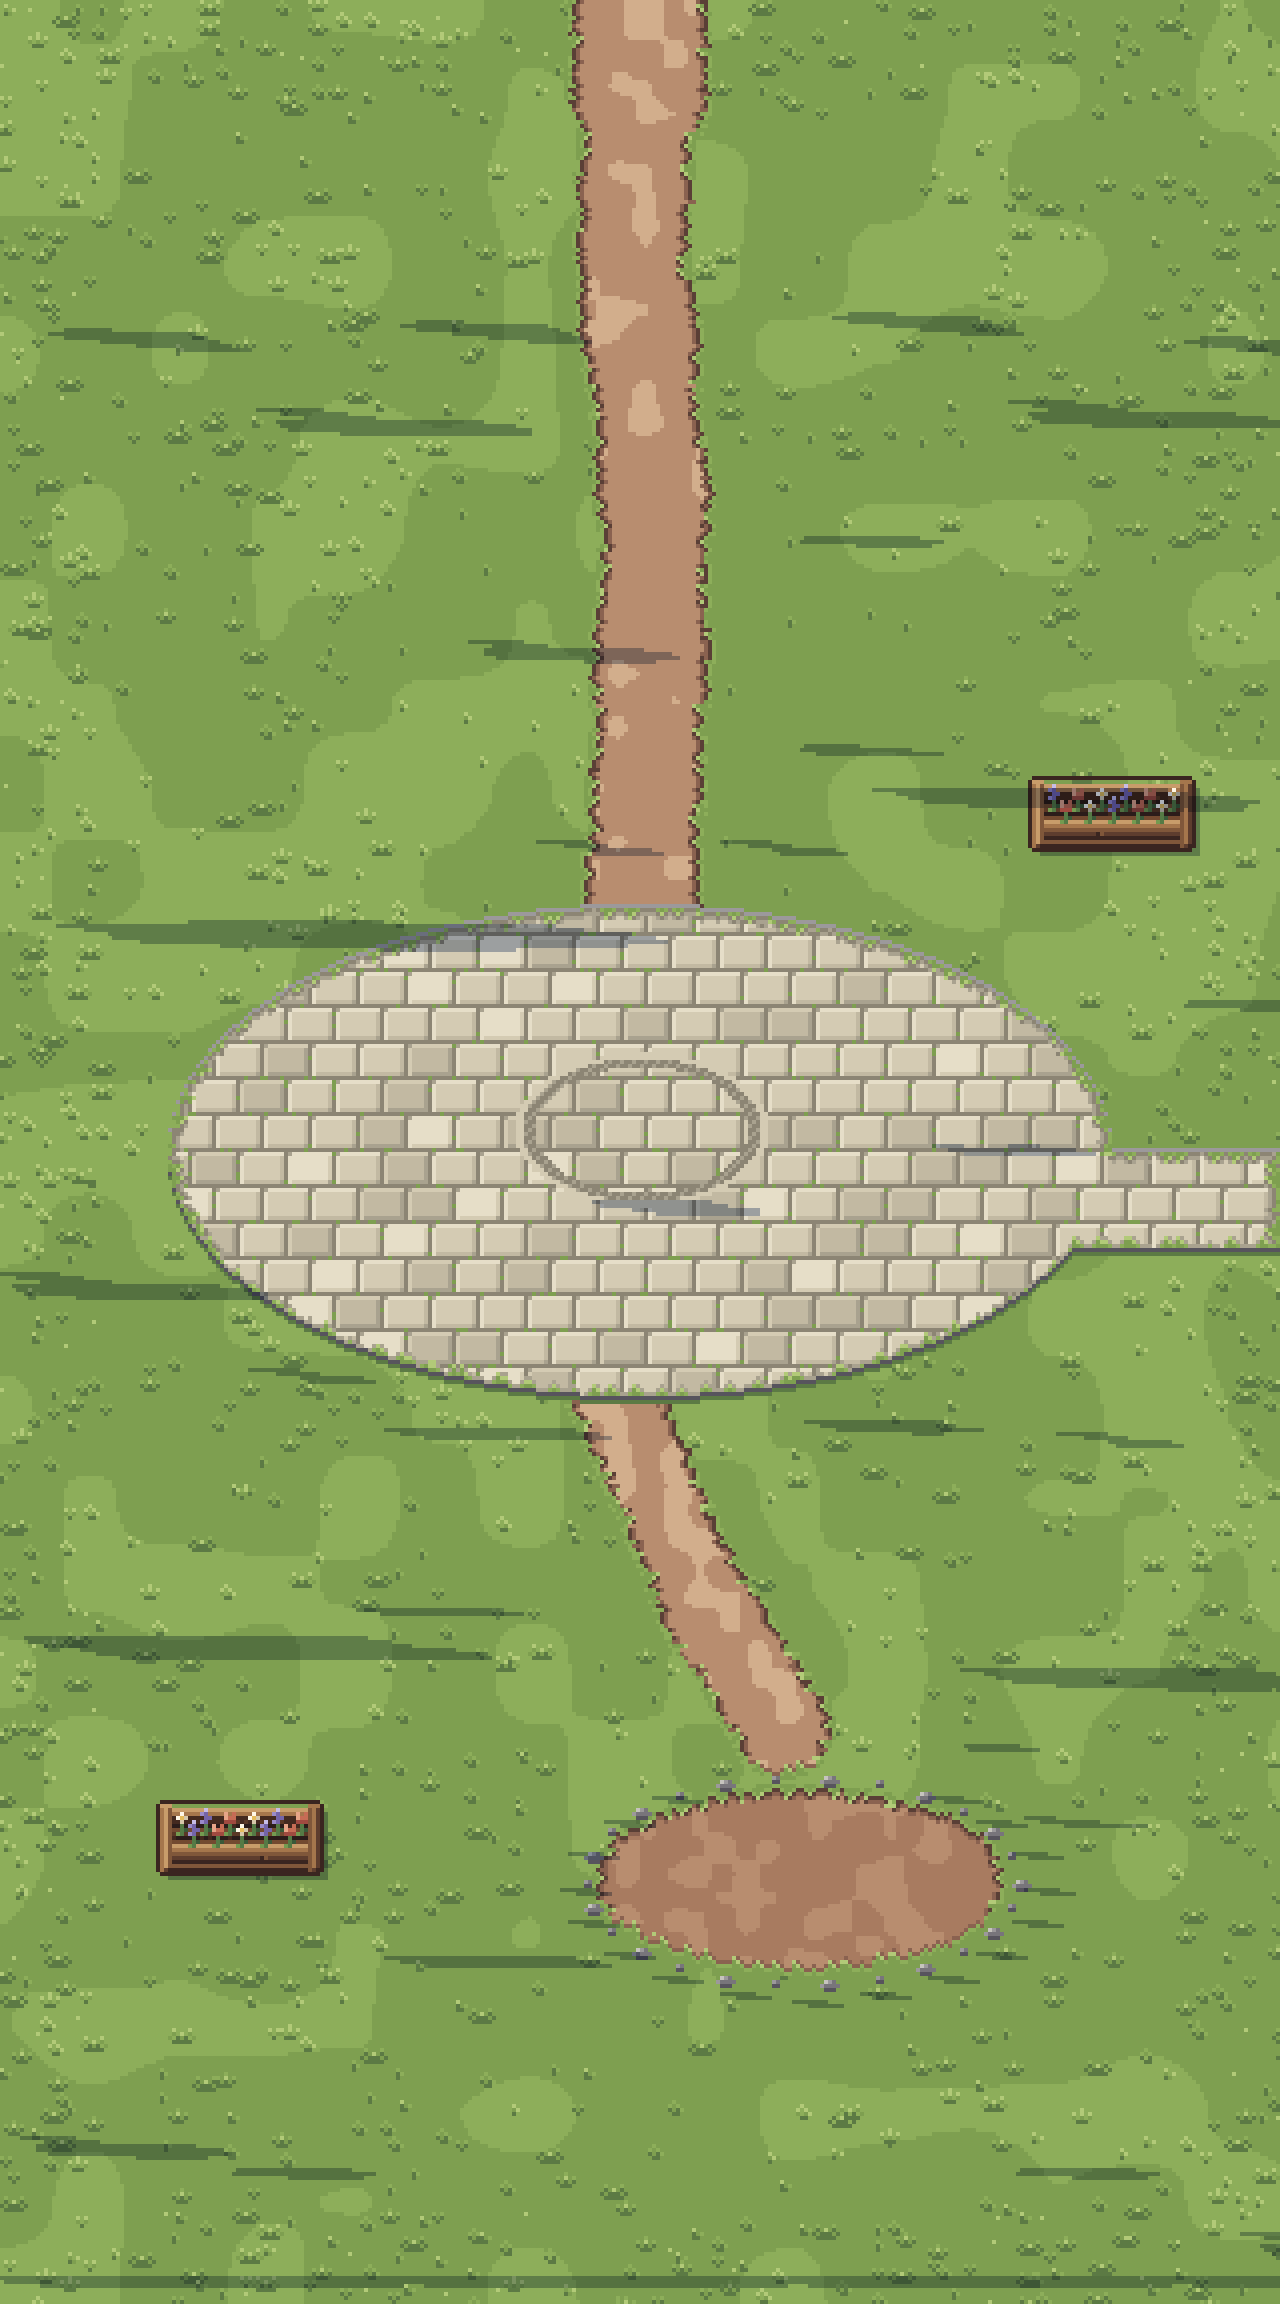
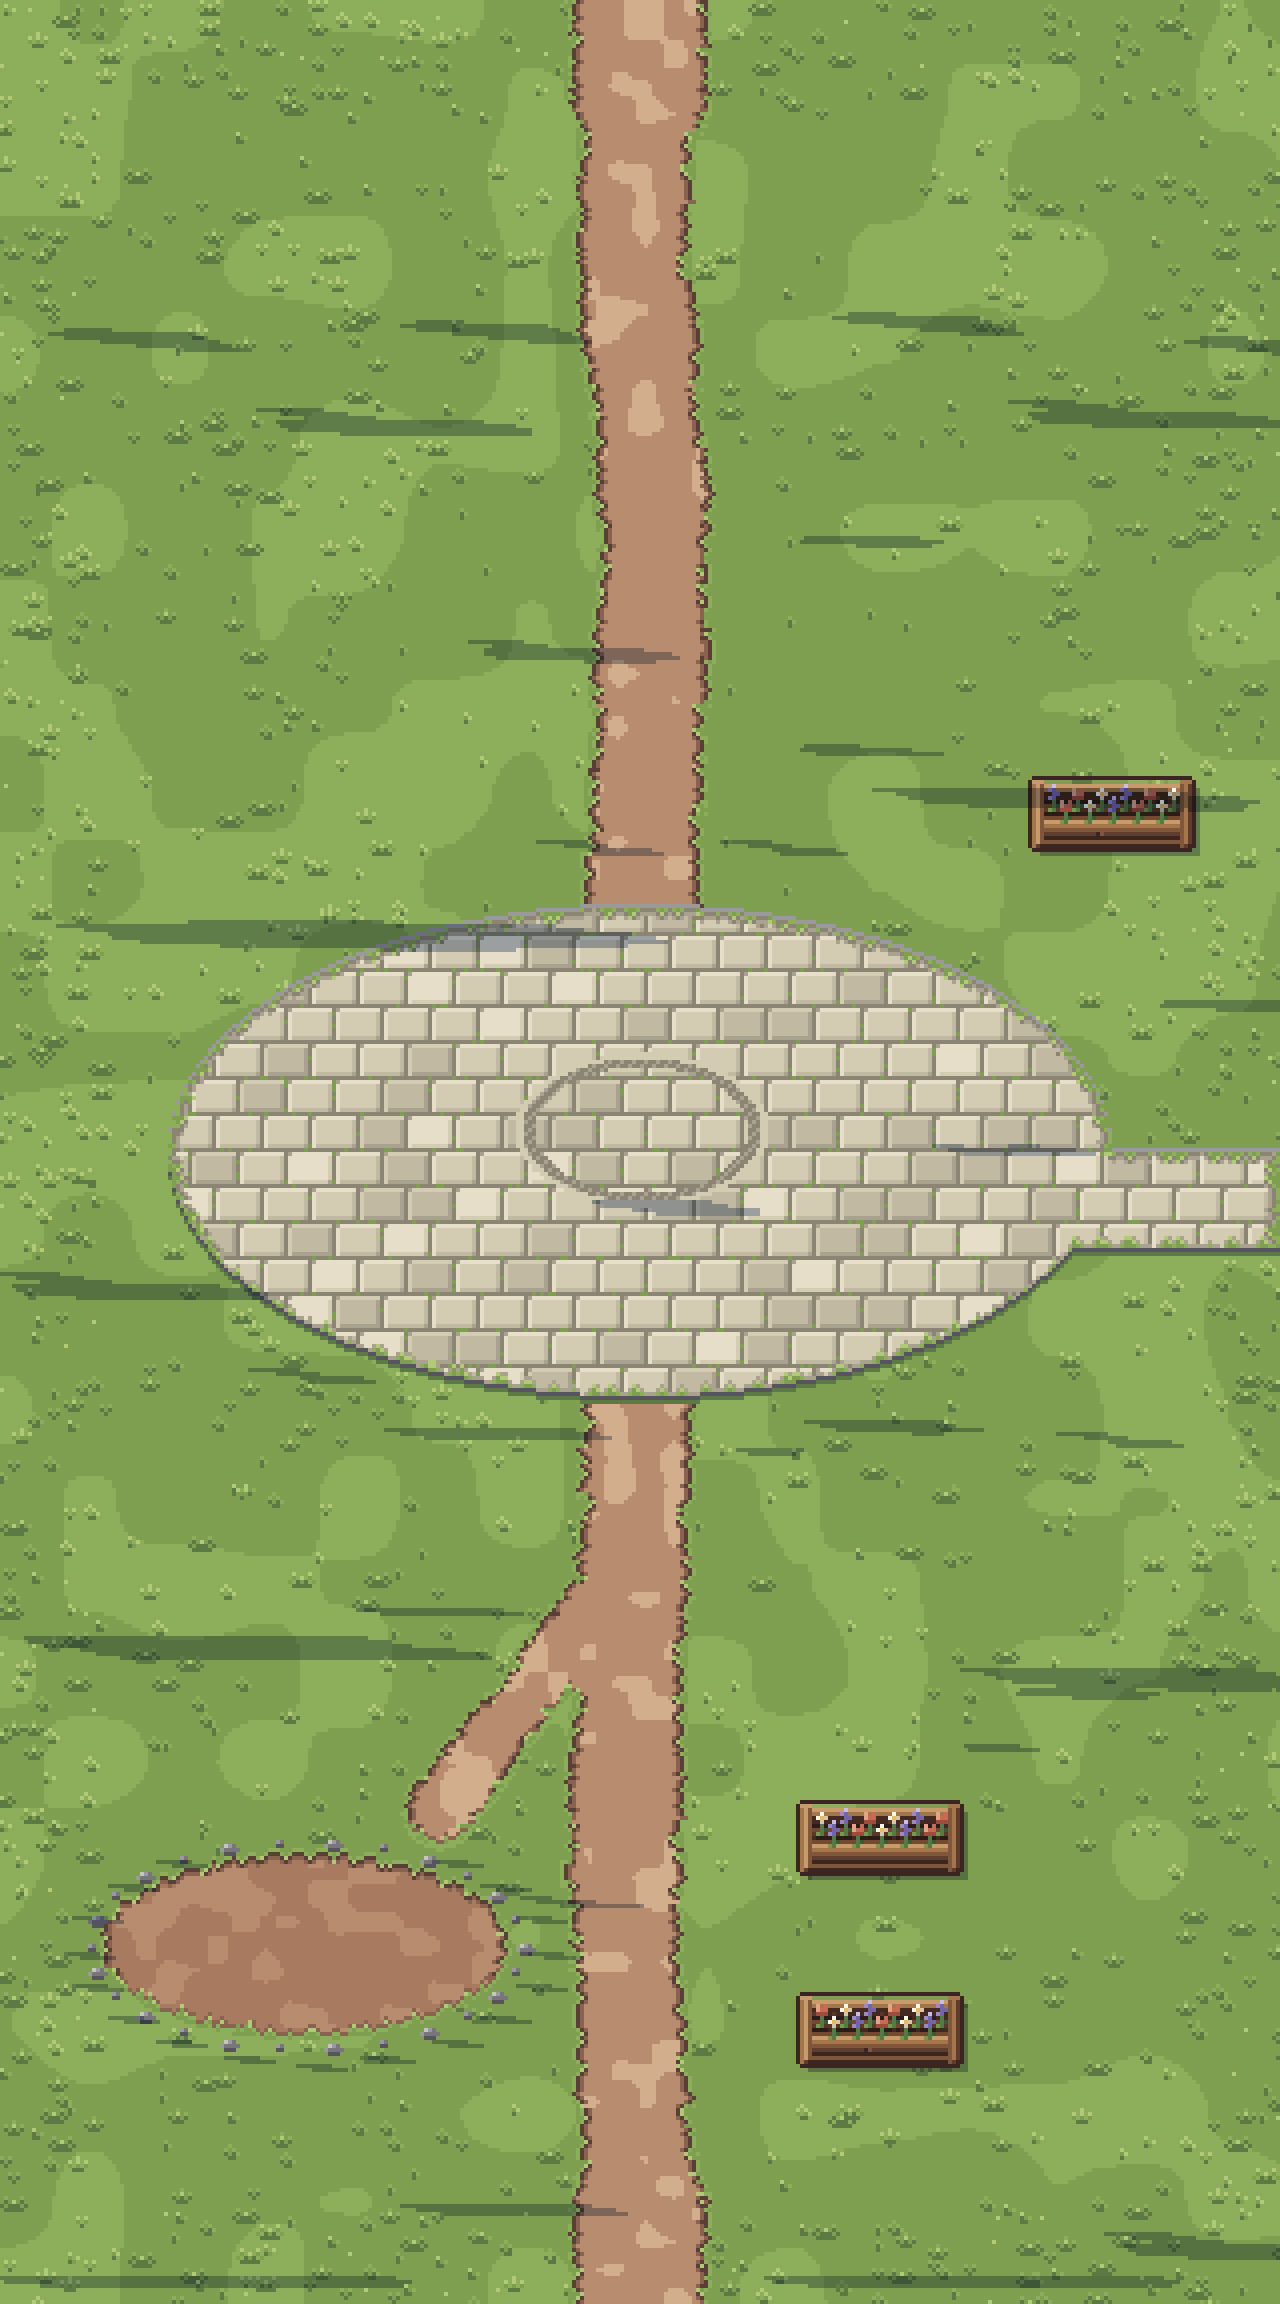
Crossroads Town: the road south to the harbour, bunting and the town cat
The town's south edge now opens on the road to Driftwood Harbour at the same x and
width as the harbour's road, so the two zones meet without a seam (roads may now
run on past either edge in paint_road). The sparring ring moves west of the road,
bunting is strung across the square for market day, and the town cat sleeps in
the sun. Overhead things (steam, drones, bunting) never block a walk.

Claude-Session: https://claude.ai/code/session_01UudrmtYkicLNgZeuSjvjrK

diff --git a/scripts/art/zones.py b/scripts/art/zones.py
@@ -110,11 +110,11 @@ def ring_post() -> Canvas:
 
 def paint_road(cv: Canvas, mask):
     """Sandy earth with the ragged turf edge, like worlds.paint_dirt, except that pixels
-    beyond the top edge count as road: the road runs on into the garden, so the border
-    gets no turf edge and the two zones meet without a seam."""
+    beyond the top or bottom edge count as road: the road runs on into the next zone,
+    so the border gets no turf edge and the two zones meet without a seam."""
     for (x, y) in mask:
         cv.set(x, y, P[4] if smooth_noise(x, y, 7, 40) > 0.7 else P[3])
-    detail.grass_edge(cv, {(x, y) for (x, y) in mask if 0 <= x < W and y < H}, G, P, seed=11)
+    detail.grass_edge(cv, {(x, y) for (x, y) in mask if 0 <= x < W}, G, P, seed=11)
     for (x, y) in mask:
         if (x, y + 1) not in mask and 0 <= y + 1 < H:
             cv.set(x, y + 1, G[3])
@@ -129,8 +129,10 @@ def town(frame: int = 0):
     paint_road(cv, road | {(x, y) for (x, y0) in road if y0 == 0 for y in range(-12, 0)})
     square = {(x, y) for (x, y) in oval(SQUARE[0], SQUARE[1], 118, 62)}
     east = worlds.thick([(250, 300), (W + 4, 300)], 13)
-    south = worlds.thick([(150, 340), (176, 400), (196, 432)], 12, seed=6)
-    worlds.paint_dirt(cv, south)
+    # the road south to Driftwood Harbour, the same width and x as the harbour's road
+    south = worlds.thick([(160, 340), (156, 470), (160, 560)], 15, seed=6) | worlds.thick([(160, 552), (160, H + 4)], 18)
+    south |= worlds.thick([(150, 400), (110, 452)], 9, seed=7)  # a side path to the ring
+    paint_road(cv, south | {(x, y) for (x, y0) in south if y0 == H - 1 for y in range(H, H + 12)})
     worlds.paint_paving(cv, square | east, seed=3)
     # a ring of darker setts around the well, and a kerb where the square meets the lawn
     for (x, y) in square:
@@ -146,7 +148,7 @@ def town(frame: int = 0):
         elif (x, y - 1) not in square and (x, y - 1) not in east:
             cv.set(x, y, STONE[3])
     # the sparring ring: trodden earth edged with stones
-    rcx, rcy = 200, 470
+    rcx, rcy = 76, 486
     ring = oval(rcx, rcy, 52, 24)
     for (x, y) in ring:
         cv.set(x, y, P[3] if smooth_noise(x, y, 6, 9) > 0.55 else P[2])
@@ -154,7 +156,7 @@ def town(frame: int = 0):
     for k in range(26):
         a = 2 * math.pi * k / 26
         detail.pebble(cv, int(rcx + 54 * math.cos(a)), int(rcy + 26 * math.sin(a)), STONE, big=k % 2 == 0)
-    for fb in ((258, 196, 40, 16, 2), (40, 452, 40, 16, 1)):
+    for fb in ((258, 196, 40, 16, 2), (200, 452, 40, 16, 1), (200, 500, 40, 16, 3)):
         meadow.flower_planter(cv, *fb)
     objects = [
         # the treeline either side of the road from the garden
@@ -176,19 +178,52 @@ def town(frame: int = 0):
         # the second street of houses, east
         ('house-blue', 'house_blue', 236, 344), ('pot-hb', 'potted_plant', 238, 418),
         # the ring and its spectators
-        ('bench-r1', 'bench', 96, 462), ('pole', 'pennant', 256, 420),
-        # the south hedge (the Cove comes later) and framing trees
-        ('hedge-s1', 'hedge', 0, 548), ('hedge-s2', 'hedge', 96, 548), ('hedge-s3', 'hedge', 192, 548),
-        ('hedge-s4', 'hedge', 288, 548),
-        ('tree-w1', 'tree', -26, 230), ('tree-w2', 'tree_small', -12, 470), ('tree-e1', 'tree', 286, 470),
-        ('bush-e2', 'bush', 292, 228), ('bush-w3', 'bush', 54, 520), ('bush-w4', 'bush', 250, 520),
+        ('bench-r1', 'bench', 100, 524), ('pole', 'pennant', 130, 440),
+        # hedges either side of the road south, and framing trees
+        ('hedge-s1', 'hedge', 0, 548), ('hedge-s3', 'hedge', 192, 548),
+        ('tree-w1', 'tree', -26, 230), ('tree-e1', 'tree', 252, 470),
+        ('bush-e2', 'bush', 286, 228), ('bush-w4', 'bush', 250, 400),
+        ('bunting', 'bunting', 60, 238), ('cat', 'cat', 182, 352),
     ]
     ring_fence(objects, rcx, rcy, 58, 28)
     stands = {
         'garden': (160, 18), 'library': (70, 238), 'well': (160, 316), 'stall': (60, 424),
-        'ring': (200, 470), 'park': (306, 300),
+        'ring': (76, 486), 'park': (306, 300), 'harbour': (160, 540),
     }
     return cv, objects, stands
+
+
+def bunting() -> Canvas:
+    """Bunting strung across the square for market day, 200 x 20: a sagging cord with
+    little pennants in the town's colours, each lit on its left half."""
+    w, h = 200, 20
+    cv = Canvas(w, h, pad=2)
+    cols = (RED, MATERIALS['gold'], MATERIALS['water'], MATERIALS['leaf'], MATERIALS['nap'])
+    for x in range(w):
+        y = 2 + int(math.sin(x / (w - 1) * math.pi) * 7)
+        cv.set(x, y, WOOD[1])
+        if x % 9 == 3 and 4 < x < w - 6:
+            c = cols[(x // 9) % len(cols)]
+            for t in range(6):
+                for dx in range(-(3 - t // 2), 4 - t // 2):
+                    cv.set(x + dx, y + 1 + t, c[3] if dx < 0 else c[2])
+    return cv
+
+
+def cat() -> Canvas:
+    """The town cat asleep in the sun, 16 x 10, curled with its tail round its nose."""
+    cv = Canvas(16, 10, pad=2)
+    for (x, y) in oval(8, 6, 6.5, 3.6):
+        cv.set(x, y, '#E8A04A' if (x - 8) + (y - 6) < -1 else '#C47A30' if x < 11 else '#9A5A22')
+    for (x, y) in disc(4, 4, 2.4):
+        cv.set(x, y, '#E8A04A' if x < 4 else '#C47A30')
+    cv.set(3, 1, '#C47A30'); cv.set(5, 1, '#C47A30')
+    cv.set(3, 4, '#5A3A1E'); cv.set(5, 4, '#5A3A1E')  # closed eyes
+    for t in range(6):
+        cv.set(9 + t, 9 - t // 3, '#9A5A22')
+    for k in range(4):
+        cv.set(6 + k * 2, 5, '#9A5A22')  # tabby stripes
+    return cv
 
 
 def pennant() -> Canvas:
@@ -204,7 +239,8 @@ def pennant() -> Canvas:
 def sprites() -> dict[str, Canvas]:
     items = wp.props()
     items.update({'stall': gp.stall(), 'signpost': gp.signpost(), 'well': well(),
-                  'notice_board': notice_board(), 'ring_post': ring_post(), 'pennant': pennant()})
+                  'notice_board': notice_board(), 'ring_post': ring_post(), 'pennant': pennant(),
+                  'bunting': bunting(), 'cat': cat()})
     items.update(sp.props())
     items.update(cp.props())
     items.update(wsp.props())
@@ -1133,6 +1169,8 @@ def lumen(frame: int = 0):
 REGION_PROPS = {'junction': sp.props, 'neon': cp.props, 'gulch': wsp.props, 'caldera': cdp.props, 'harbour': hbp.props, 'castle': csp.props,
                 'station': spp.props_station, 'lumen': spp.props_lumen}
 SHARED_PROPS = {'steam_puff', 'drone', 'ring_post', 'fence_c'}
+# Things above head height: they cast no ground shadow, never block a walk, draw on top.
+OVERHEAD = {'steam_puff', 'drone', 'bunting'}
 
 
 def build(name: str, fn, start: str):
@@ -1146,11 +1184,11 @@ def build(name: str, fn, start: str):
     objects = [(i, k, x + sprite_map[k].ox, y + sprite_map[k].oy) for (i, k, x, y) in objects]
     shade = set()
     for (_id, key, x, y) in objects:
-        if key not in ('steam_puff', 'drone'):
+        if key not in OVERHEAD:
             shade |= detail.silhouette_shadow(sprite_map[key], x, y)
     for (sx, sy) in shade:
         style.darken(cv, sx, sy)
-    walk = walk_grid([o for o in objects if o[1] not in ('steam_puff', 'drone')], sprite_map)
+    walk = walk_grid([o for o in objects if o[1] not in OVERHEAD], sprite_map)
     cells = {(x // CELL, y // CELL) for (x, y) in blocked_ground}
     walk = [''.join('#' if (c, r) in cells else ch for c, ch in enumerate(row)) for r, row in enumerate(walk)]
     seen = reachable(walk, stands[start])
@@ -1163,7 +1201,7 @@ def build(name: str, fn, start: str):
     if preview:
         prev = Canvas(W, H)
         prev.paste(cv, 0, 0)
-        for (_id, key, x, y) in sorted(objects, key=lambda o: o[3] + sprite_map[o[1]].h + (900 if o[1] in ('steam_puff', 'drone') else 0)):
+        for (_id, key, x, y) in sorted(objects, key=lambda o: o[3] + sprite_map[o[1]].h + (900 if o[1] in OVERHEAD else 0)):
             prev.paste(sprite_map[key], x, y)
         if name == 'neon':
             rain(prev)
